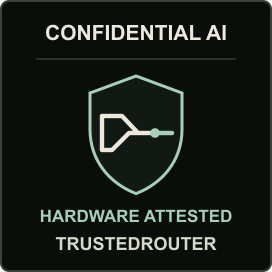
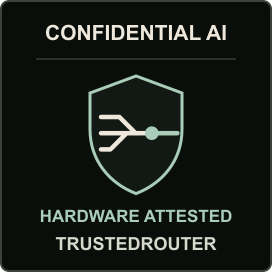
Use canonical TrustedRouter mark in trust badge

Changed region(s): [[0.3529, 0.4118, 0.6765, 0.5882]]

diff --git a/tests/test_public_revenue_pages.py b/tests/test_public_revenue_pages.py
@@ -214,6 +214,14 @@ def test_confidential_ai_badge_is_embeddable_and_scoped(client: TestClient) -> N
         assert badge.status_code == 200, asset
         assert "public" in badge.headers["cache-control"]
 
+    canonical_mark = 'd="M1.4 7.5H6.5L11 12M1.4 16.5H4L8.5 12M1.4 12H15.5"'
+    for asset in (
+        "/static/badges/confidential-ai-light.svg",
+        "/static/badges/confidential-ai-dark.svg",
+        "/static/badges/confidential-ai-seal.svg",
+    ):
+        assert canonical_mark in client.get(asset).text
+
     homepage = client.get("/")
     assert 'href="/badge">Confidential AI badge</a>' in homepage.text
 
